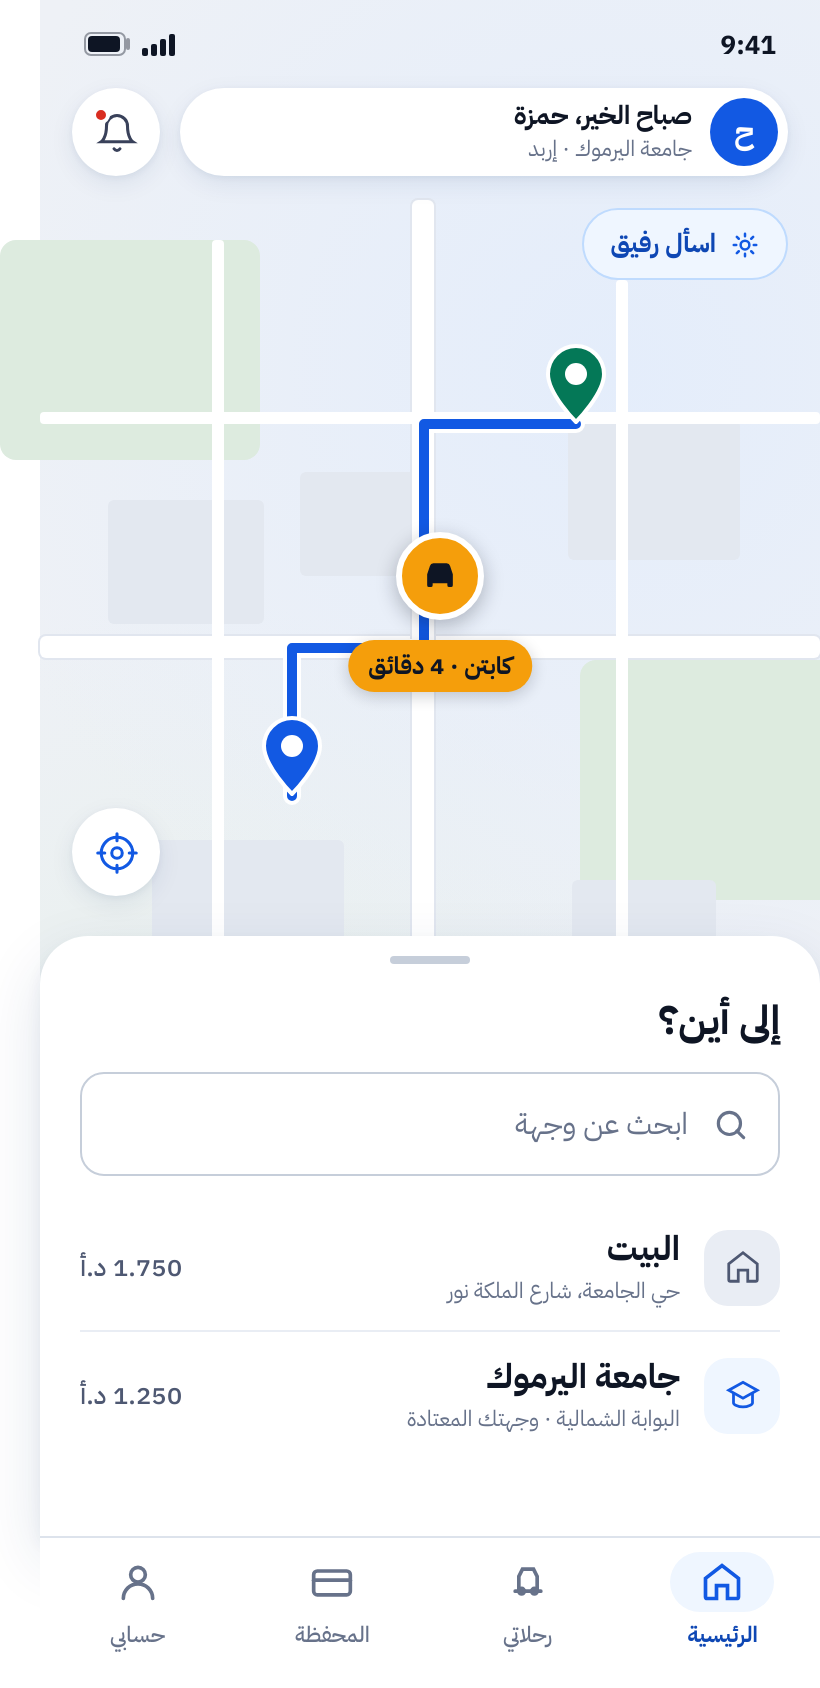
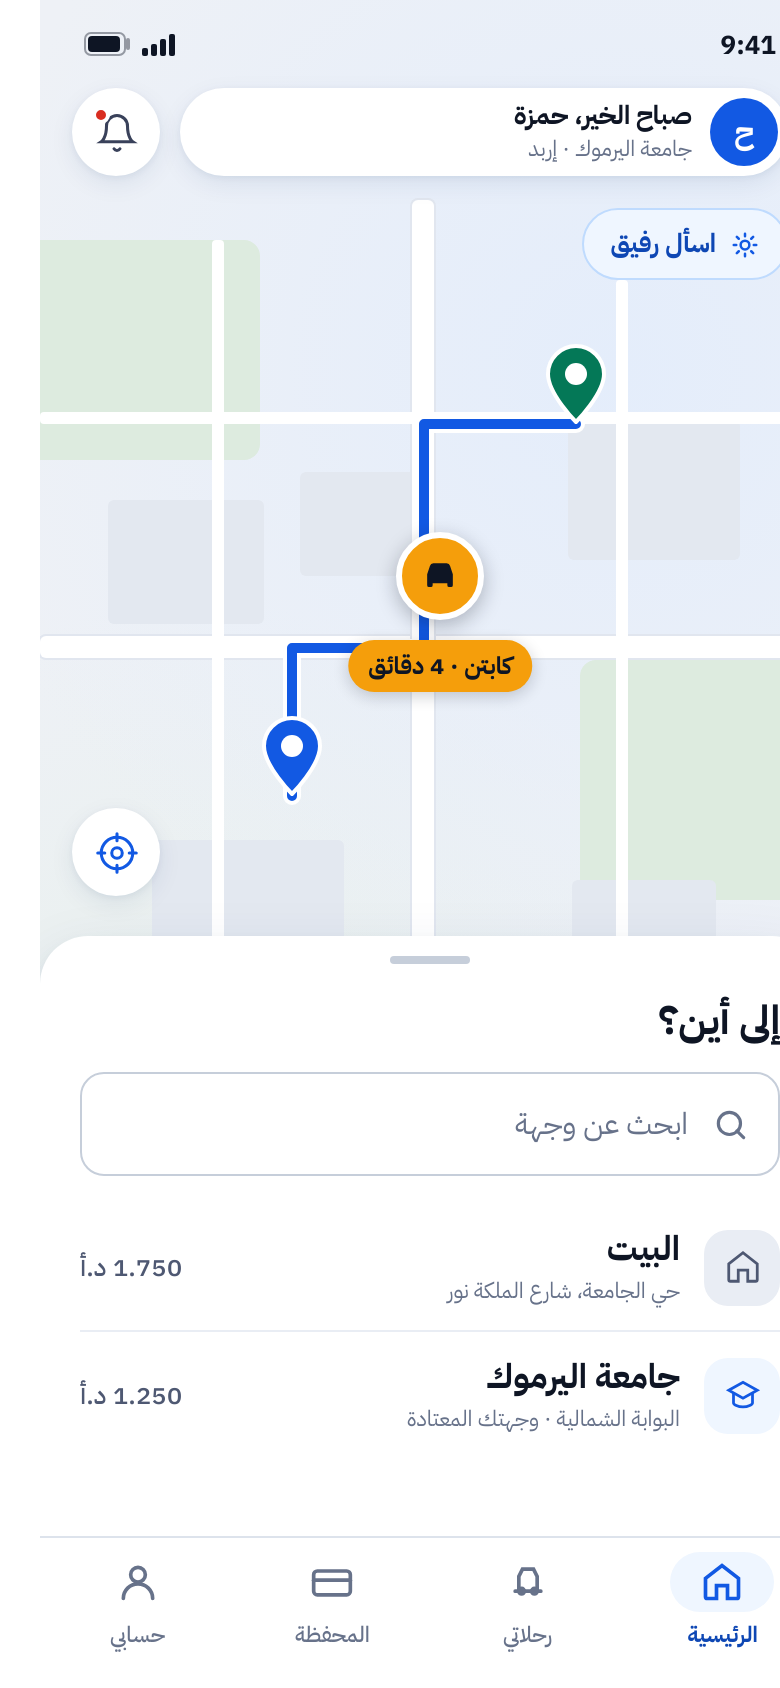
fix(design): exact phone frames, path-independent renderer, offer screen layout
- Phone sheets were captured with fullPage, so each came out a different width
  (820 / 780 / 812) and carried dead space below the frame. They now render at
  exactly 390x844 @2x = 780x1688, so the mockups are true device frames.
- shoot.mjs had an absolute path to a scratch directory and could only run from
  one machine. It now resolves paths from its own location, so anyone can
  regenerate the identity with: npx playwright install chromium && node shoot.mjs
- Driver offer screen: the countdown ring was clipped at the frame edge and the
  action row floated mid-panel leaving a large white gap. The ring moved into
  the panel header beside the status pill, the panel became a flex column so the
  56px accept/ignore row pins to the bottom, and the map grew to 330px.

diff --git a/docs/design/src/07-driver-offer.html b/docs/design/src/07-driver-offer.html
@@ -2,13 +2,13 @@
 <link rel="stylesheet" href="tokens.css"><link rel="stylesheet" href="_phone.css"></head><body>
 <div class="scr" style="background:var(--n900)">
   <!-- FULL-SCREEN TAKEOVER. Not a list row in a card. Captain is driving. -->
-  <div class="map" style="bottom:auto;height:300px">
+  <div class="map" style="bottom:auto;height:330px">
     <div class="grn" style="left:-16px;top:30px;width:110px;height:84px"></div>
     <div class="blk" style="left:50px;top:150px;width:80px;height:54px"></div>
     <div class="blk" style="right:44px;top:120px;width:78px;height:60px"></div>
     <div class="rd-m" style="left:0;top:212px;width:390px;height:11px"></div>
     <div class="rd-m" style="left:180px;top:0;width:11px;height:300px"></div>
-    <svg style="position:absolute;inset:0" width="390" height="300">
+    <svg style="position:absolute;inset:0" width="390" height="330">
       <path class="route-c" d="M104,262 L104,218 L186,218 L186,108 L282,108"/>
       <path class="route"   d="M104,262 L104,218 L186,218 L186,108 L282,108"/>
     </svg>
@@ -22,20 +22,20 @@
     <svg width="24" height="12" viewBox="0 0 24 12" fill="none"><rect x=".5" y=".5" width="20" height="11" rx="3" stroke="#0E1524" opacity=".4"/><rect x="2" y="2" width="16" height="8" rx="2" fill="#0E1524"/><path d="M22 4v4" stroke="#0E1524" stroke-width="2" stroke-linecap="round" opacity=".4"/></svg>
   </div></div>
 
-  <!-- countdown ring -->
-  <div style="position:absolute;top:56px;inset-inline-end:16px;width:60px;height:60px;z-index:60">
-    <svg width="60" height="60" viewBox="0 0 60 60"><circle cx="30" cy="30" r="26" fill="#fff" opacity=".95"/>
-      <circle cx="30" cy="30" r="26" fill="none" stroke="#DDE3EC" stroke-width="5"/>
-      <circle cx="30" cy="30" r="26" fill="none" stroke="#1259E3" stroke-width="5" stroke-linecap="round"
-        stroke-dasharray="163" stroke-dashoffset="52" transform="rotate(-90 30 30)"/>
-      <text x="30" y="36" text-anchor="middle" font-family="IBM Plex Sans Arabic" font-size="21" font-weight="700" fill="#0E1524">12</text></svg>
-  </div>
 
   <!-- offer panel -->
-  <div style="position:absolute;inset-inline:0;bottom:0;top:276px;background:#fff;border-radius:24px 24px 0 0;padding:20px">
-    <div class="row" style="margin-bottom:16px">
-      <span class="pill pill-live"><span class="i i-dot-live"></span>طلب جديد</span><div class="sp"></div>
+  <div style="position:absolute;inset-inline:0;bottom:0;top:306px;background:#fff;border-radius:24px 24px 0 0;padding:20px;display:flex;flex-direction:column">
+    <div class="row" style="margin-bottom:14px">
+      <span class="pill pill-live"><span class="i i-dot-live"></span>طلب جديد</span>
       <span class="t-label" style="color:var(--n500)">رحلة فورية</span>
+      <div class="sp"></div>
+      <div class="row" style="gap:8px">
+        <span class="t-caption" style="color:var(--n500)">تنتهي بعد</span>
+        <svg width="44" height="44" viewBox="0 0 60 60"><circle cx="30" cy="30" r="26" fill="none" stroke="#DDE3EC" stroke-width="6"/>
+          <circle cx="30" cy="30" r="26" fill="none" stroke="#1259E3" stroke-width="6" stroke-linecap="round"
+            stroke-dasharray="163" stroke-dashoffset="52" transform="rotate(-90 30 30)"/>
+          <text x="30" y="38" text-anchor="middle" font-family="IBM Plex Sans Arabic" font-size="23" font-weight="700" fill="#0E1524">12</text></svg>
+      </div>
     </div>
 
     <!-- the number that decides: net earnings -->
@@ -56,7 +56,7 @@
       <div class="col" style="flex:1;gap:2px;padding-inline-start:16px"><span class="t-caption" style="color:var(--n500)">الوقت المتوقّع</span><span class="t-title-md num">14 د</span></div>
     </div>
 
-    <div class="row" style="gap:11px;align-items:flex-start;margin-bottom:22px">
+    <div class="row" style="gap:11px;align-items:flex-start">
       <div class="col" style="align-items:center;gap:0;padding-top:5px">
         <div style="width:9px;height:9px;border-radius:50%;background:var(--b600)"></div>
         <div style="width:2px;height:24px;background:var(--n300)"></div>
@@ -67,7 +67,8 @@
     </div>
 
     <!-- 56px tall targets. Accept dominates. -->
-    <div class="row" style="gap:11px">
+    <div class="sp"></div>
+    <div class="row" style="gap:11px;padding-bottom:6px">
       <button class="btn" style="height:56px;flex:.4;background:var(--n100);color:var(--n700);font-size:16px">تجاهل</button>
       <button class="btn btn-primary" style="height:56px;flex:1;font-size:17px;font-weight:700">اقبل الرحلة</button>
     </div>
